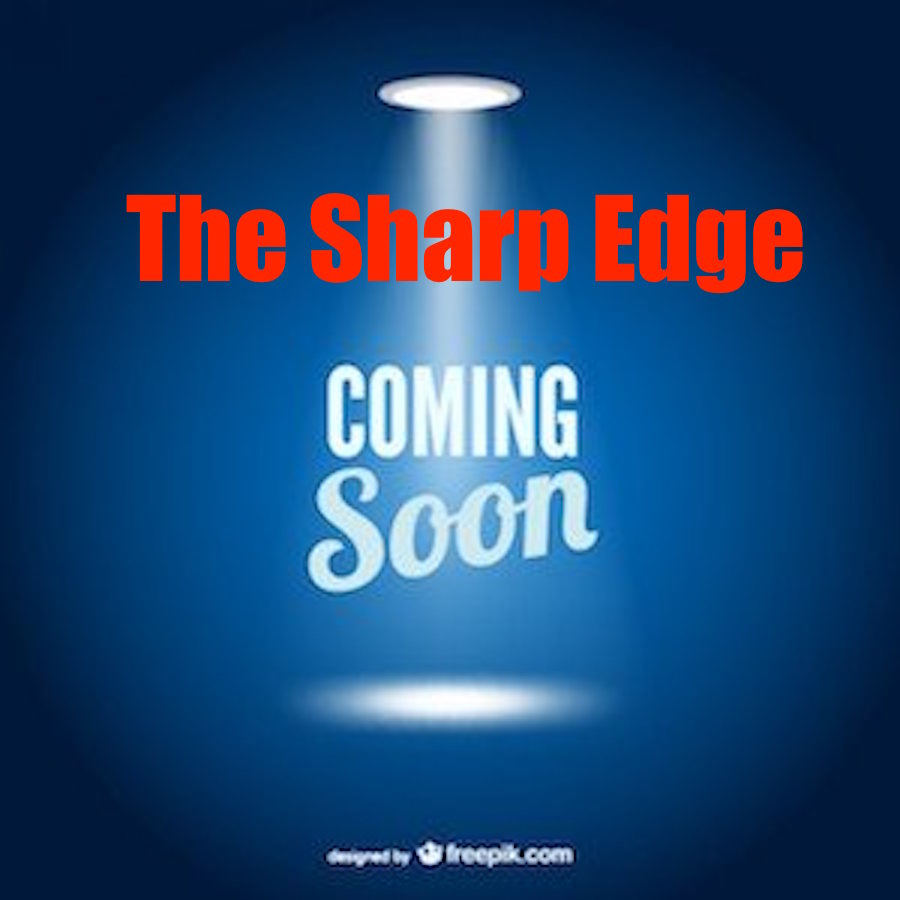
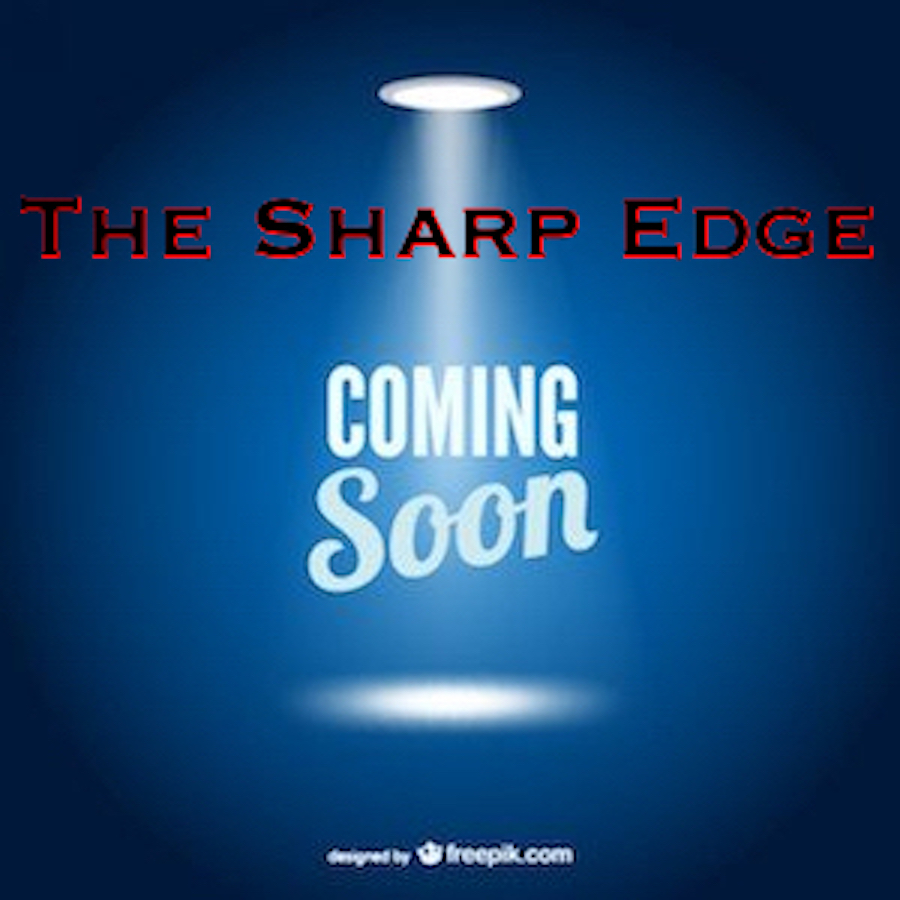
updated the sharp edge coming soon image, added end of days and cause unknown season 2 images, modified the bartender image

Changed region(s): [[0.0, 0.1867, 0.9956, 0.3422]]

diff --git a/index.html b/index.html
@@ -185,6 +185,28 @@
                 </div>
             </div>
             <div class="row">
+                <div class="col-md-6 col-sm-6">
+                    <a href="https://www.imdb.com/title/tt9094162" target="_blank">
+                        <div class="card box-shadow">
+                            <img class="card-img-top img-responsive" src="img/cause_unknown_900x900.jpg" alt="Cause Unknown">
+                            <div class="card-body">
+                                <p class="card-text">Music by Julian Montgomery<br>Directed by Jay Pickens<br>Released October 2018</p>
+                            </div>
+                        </div>
+                    </a>
+                </div>
+                <div class="col-md-6 col-sm-6">
+                    <a href="https://www.imdb.com/title/tt9054822" target="_blank">
+                        <div class="card box-shadow">
+                            <img class="card-img-top img-responsive" src="img/the_bartender.jpg" alt="The Bartender">
+                            <div class="card-body">
+                                <p class="card-text">Music by Julian Montgomery<br>Directed by Lortir Pierre-Louis<br>Released September 2018</p>
+                            </div>
+                        </div>
+                    </a>
+                </div>
+            </div>
+            <div class="row">
                 <div class="col-md-4 col-sm-4">
                     <div class="card box-shadow">
                         <img class="card-img-top img-responsive" src="img/the_sharp_edge_coming_soon.jpg" alt="The Sharp Edge">
@@ -195,24 +217,21 @@
                     </div>
                 </div>
                 <div class="col-md-4 col-sm-4">
-                    <a href="https://www.imdb.com/title/tt9094162" target="_blank">
-                        <div class="card box-shadow">
-                            <img class="card-img-top img-responsive" src="img/cause_unknown_900x900.jpg" alt="Cause Unknown">
-                            <div class="card-body">
-                                <p class="card-text">Music by Julian Montgomery<br>Directed by Jay Pickens<br>Released October 2019</p>
-                            </div>
+                    <div class="card box-shadow">
+                        <img class="card-img-top img-responsive" src="img/end_of_days_coming_soon.jpg" alt="The Sharp Edge">
+                        <div class="card-body">
+                            <p class="card-text">Music by Julian Montgomery<br>Directed by Tristan Fortier<br>Expected release Summer
+                                2019</p>
                         </div>
-                    </a>
+                    </div>
                 </div>
                 <div class="col-md-4 col-sm-4">
-                    <a href="https://www.imdb.com/title/tt9054822" target="_blank">
-                        <div class="card box-shadow">
-                            <img class="card-img-top img-responsive" src="img/the_bartender.jpg" alt="The Bartender">
-                            <div class="card-body">
-                                <p class="card-text">Music by Julian Montgomery<br>Directed by Lortir Pierre-Louis<br>Released September 2018</p>
-                            </div>
+                    <div class="card box-shadow">
+                        <img class="card-img-top img-responsive" src="img/cause_unkonwn_2_coming_soon.jpg" alt="The Sharp Edge">
+                        <div class="card-body">
+                            <p class="card-text">Music by Julian Montgomery<br>Directed by Jay Pickens<br>Expected release Summer 2019</p>
                         </div>
-                    </a>
+                    </div>
                 </div>
             </div>
             <div class="row mt-20">
